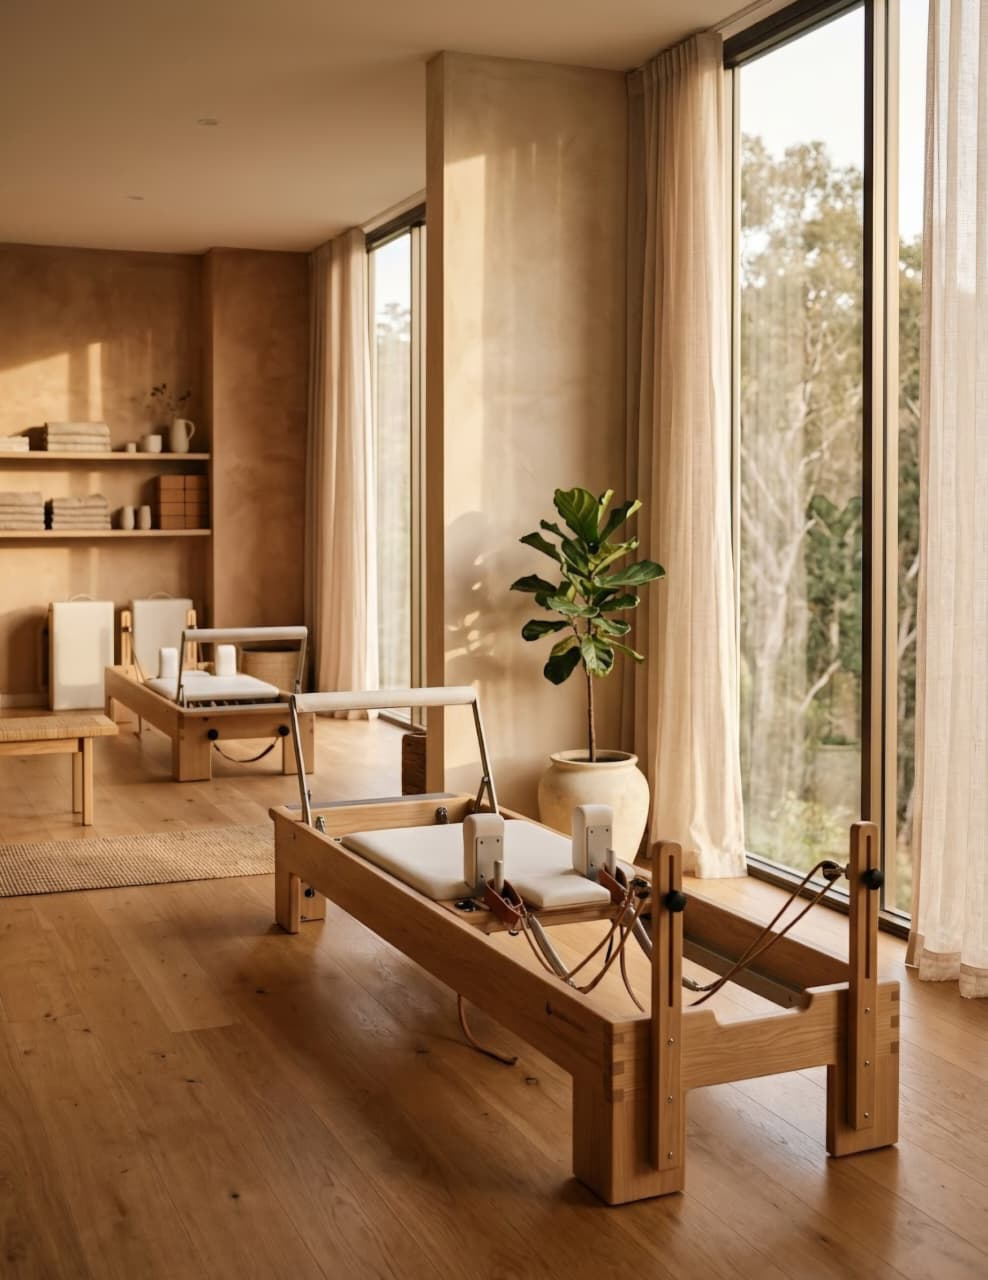
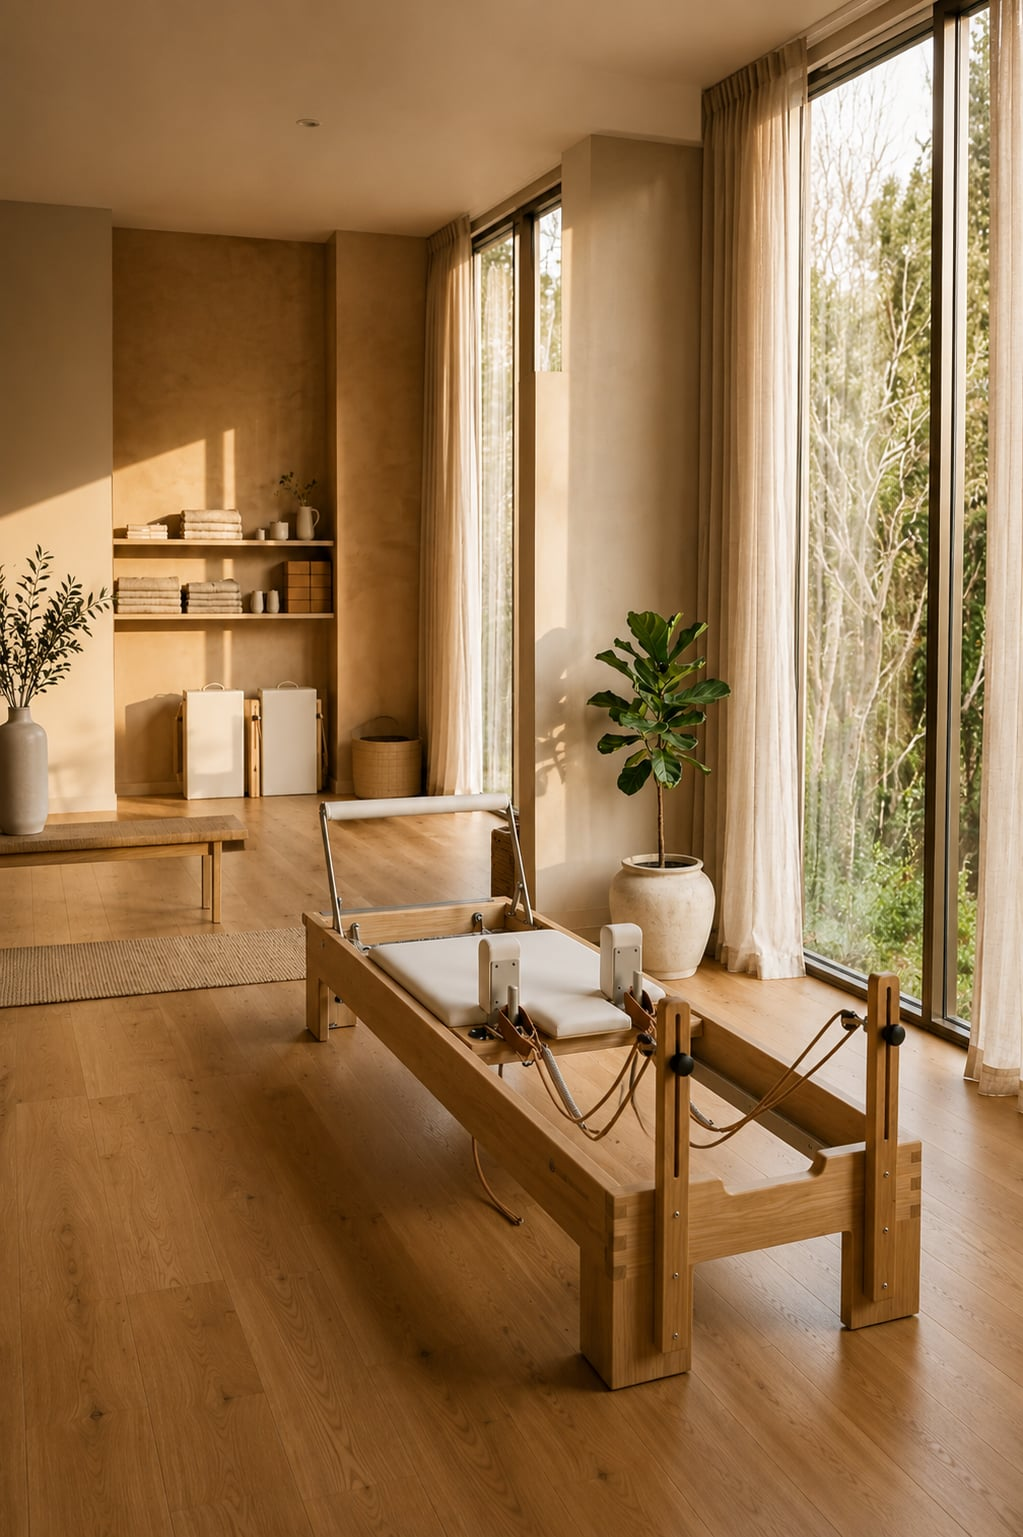
feat(login): imagen de marca v2 en alta resolución + encuadre mobile
- Swap de login-bg.jpg por la versión generada por el owner (1023×1537, +20% de
  resolución, mejor microdetalle y luz más cálida); optimizada a JPG q85 (208KB
  vs 2.2MB del PNG original)
- Encuadre mobile: object-[center_90%] en la banda de 38vh — la camilla (y≈362–534
  de los 586px escalados) entra completa; antes object-center la cortaba abajo.
  Desktop sin cambios (md:object-bottom)

Aprobado por el owner en vivo a 1920 / 390 / 360.

diff --git a/projects/pilates-studio-app/src/app/login/page.tsx b/projects/pilates-studio-app/src/app/login/page.tsx
@@ -64,7 +64,7 @@ export default async function LoginPage({
           src={BG}
           alt=""
           aria-hidden
-          className="absolute inset-0 size-full object-cover object-center md:object-bottom"
+          className="absolute inset-0 size-full object-cover object-[center_90%] md:object-bottom"
         />
         <div className="absolute inset-0 bg-gradient-to-t from-foreground/80 via-foreground/30 to-foreground/5" />
         <div className="absolute inset-x-0 bottom-0 p-6 sm:p-8 md:p-10 lg:p-12">